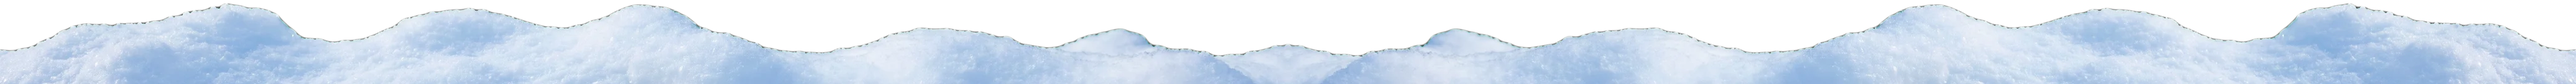
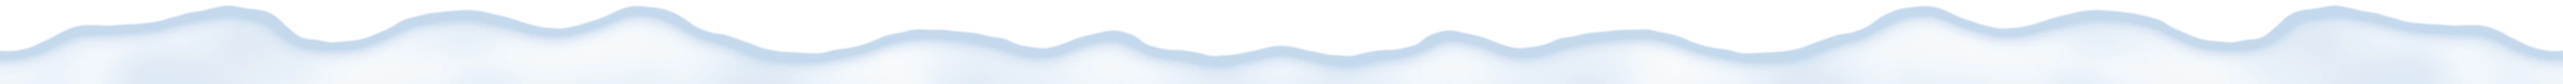
Snow: soft smooth mounds instead of the photographic texture

diff --git a/leaderboard-deploy/frontend/app.html b/leaderboard-deploy/frontend/app.html
@@ -1168,7 +1168,7 @@ html{overflow-y:scroll;}
 /* ==== Christmas theme (red / white), 2026-11-28 ==== */
 body::after{content:'';position:fixed;inset:0;z-index:0;pointer-events:none;background:radial-gradient(ellipse 120% 60% at 50% 0%,rgba(214,32,52,.22) 0%,transparent 65%)}
 nav{background:linear-gradient(180deg,#a30f22 0%,#7d0b1a 100%)!important;border-bottom:none!important;box-shadow:0 2px 18px rgba(0,0,0,.45)}
-nav::after{content:'';position:absolute;left:0;right:0;bottom:-3px;height:34px;pointer-events:none;background:url(/assets/snow-edge.webp?v=2) bottom left/auto 34px repeat-x;filter:drop-shadow(0 3px 3px rgba(0,0,0,.35))}
+nav::after{content:'';position:absolute;left:0;right:0;bottom:-3px;height:34px;pointer-events:none;background:url(/assets/snow-edge.webp?v=3) bottom left/auto 34px repeat-x;filter:drop-shadow(0 3px 3px rgba(0,0,0,.35))}
 .nlinks a,.nmob-links a{color:rgba(255,255,255,.72)}
 .nlinks a.on{border-bottom-color:transparent}
 .nlogo,.nsocials,.nsoc{border-color:rgba(255,255,255,.22)!important}
@@ -1272,8 +1272,8 @@ nav::after{content:'';position:absolute;left:0;right:0;bottom:-3px;height:34px;p
 @media(max-width:860px){.xc-grid{grid-template-columns:repeat(4,1fr)}.xc-steps{grid-template-columns:1fr}}
 @media(max-width:520px){.xc-grid{grid-template-columns:repeat(3,1fr);gap:8px}.xc-row{padding:10px 12px;gap:8px}.xc-card-h{padding:12px}.xc-head{padding-top:30px}}
   
-.xc-banner{position:relative;overflow:hidden;display:grid;grid-template-columns:minmax(0,1fr) auto;align-items:center;gap:36px;margin:30px 0 16px;padding:38px 44px 116px;border-radius:18px;border:1px solid rgba(255,255,255,.22);background:radial-gradient(ellipse 55% 90% at 22% 0%,rgba(255,120,120,.35) 0%,transparent 70%),radial-gradient(ellipse 45% 80% at 88% 100%,rgba(0,0,0,.35) 0%,transparent 70%),linear-gradient(180deg,#b3132a 0%,#8c0d1e 55%,#6a0a17 100%);box-shadow:0 14px 44px rgba(0,0,0,.45)}
-.xc-banner::after{content:'';position:absolute;left:0;right:0;bottom:0;height:96px;pointer-events:none;background:url(/assets/snow-bank.webp) -420px 100%/auto 96px repeat-x}
+.xc-banner{position:relative;overflow:hidden;display:grid;grid-template-columns:minmax(0,1fr) auto;align-items:center;gap:36px;margin:30px 0 16px;padding:38px 44px 96px;border-radius:18px;border:1px solid rgba(255,255,255,.22);background:radial-gradient(ellipse 55% 90% at 22% 0%,rgba(255,120,120,.35) 0%,transparent 70%),radial-gradient(ellipse 45% 80% at 88% 100%,rgba(0,0,0,.35) 0%,transparent 70%),linear-gradient(180deg,#b3132a 0%,#8c0d1e 55%,#6a0a17 100%);box-shadow:0 14px 44px rgba(0,0,0,.45)}
+.xc-banner::after{content:'';position:absolute;left:0;right:0;bottom:0;height:76px;pointer-events:none;background:url(/assets/snow-bank.webp?v=3) -420px 100%/auto 76px repeat-x}
 .xc-banner>*{position:relative;z-index:1}
 .xc-banner-main{display:flex;flex-direction:column;align-items:center;text-align:center;min-width:0}
 .xc-banner .xc-collab{margin-bottom:12px}
@@ -1281,7 +1281,7 @@ nav::after{content:'';position:absolute;left:0;right:0;bottom:-3px;height:34px;p
 .xc-banner .xc-title span{color:#fff;-webkit-text-stroke:0;opacity:.82}
 .xc-banner .xc-lead{color:rgba(255,255,255,.82);margin-top:12px;max-width:500px}
 .xc-banner .xc-pool{margin:0;box-shadow:0 10px 30px rgba(0,0,0,.35)}
-@media(max-width:860px){.xc-banner{grid-template-columns:1fr;justify-items:center;gap:22px;padding:28px 18px 84px;margin-top:20px}.xc-banner::after{height:68px;background-size:auto 68px}}
+@media(max-width:860px){.xc-banner{grid-template-columns:1fr;justify-items:center;gap:22px;padding:28px 18px 72px;margin-top:20px}.xc-banner::after{height:56px;background-size:auto 56px}}
   </style>
 </head>
 <body>
